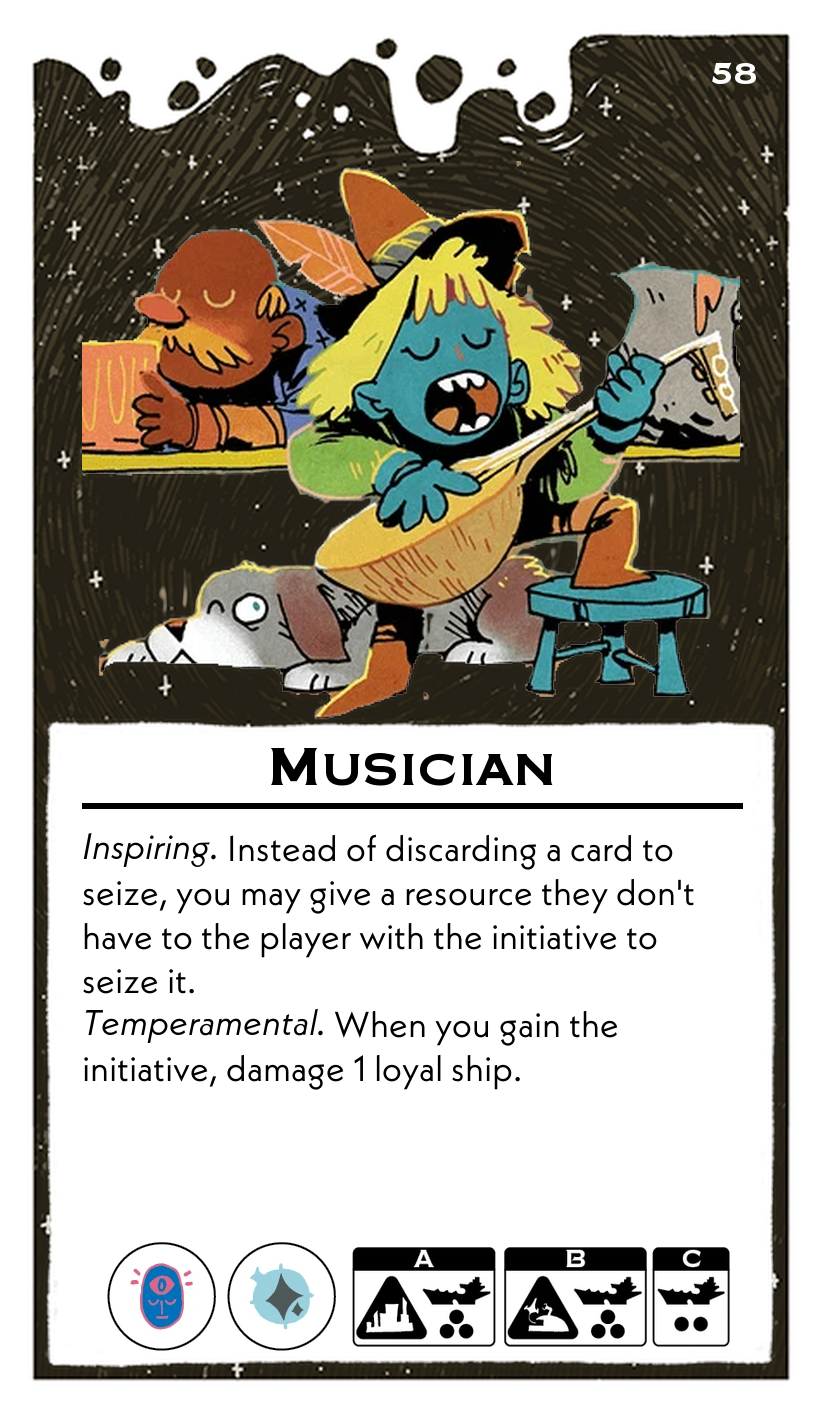
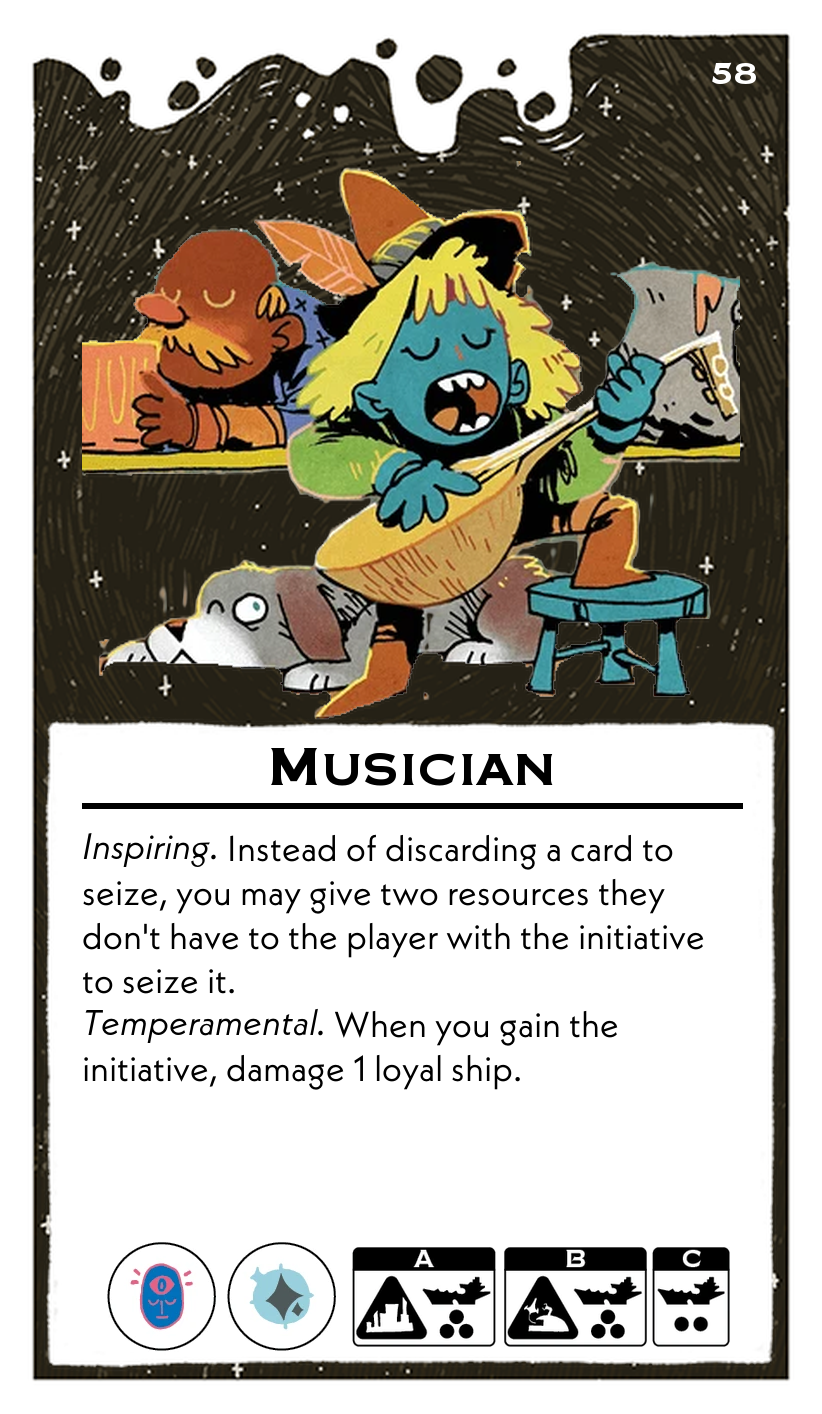
lll

Changed region(s): [[0.0912, 0.6223, 0.8516, 0.7157]]

diff --git a/scripts/leadersFormatted.py b/scripts/leadersFormatted.py
@@ -698,7 +698,7 @@ leaders = [
     {
         "name": "Cartographer",
         "abilities": (
-            "*Exploratory.* When you **move**, you may move ships starting from two systems instead of one.\n"
+            "*Exploratory.* When you Catapulult **move**, gain a Fuel.\n"
             "*Distracted.* When you Catapult **move**, after each move you must drop off 1 ship."
         ),
         "resources": ["Fuel", "Relic"],
@@ -812,7 +812,7 @@ leaders = [
     {
         "name": "Courier",
         "abilities": (
-            "*Swift.* At the start of each chapter, place 3 agents on planets with no loyal pieces. When you **move** into one, return the agent and gain a resource matching that planet. (While on the planet an agent is not considered a loyal piece.)\n"
+            "*Swift.* At the start of each chapter, place 3 agents on planets with no loyal pieces. When you **move** into one, return the agent and gain a resource matching that planet. (While on a planet an agent is not considered a loyal piece.)\n"
             "*Careless.* You cannot gain bonus city Power if you have not returned all agents on the board."
         ),
         "resources": ["Fuel", "Fuel"],
@@ -884,7 +884,7 @@ leaders = [
     {
         "name": "Musician",
         "abilities": (
-            "*Inspiring.* Instead of discarding a card to seize, you may give a resource they don't have to the player with the initiative to seize it.\n"
+            "*Inspiring.* Instead of discarding a card to seize, you may give two resources they don't have to the player with the initiative to seize it.\n"
             "*Temperamental.* When you gain the initiative, damage 1 loyal ship."
         ),
         "resources": ["Psionic", "Relic"],
